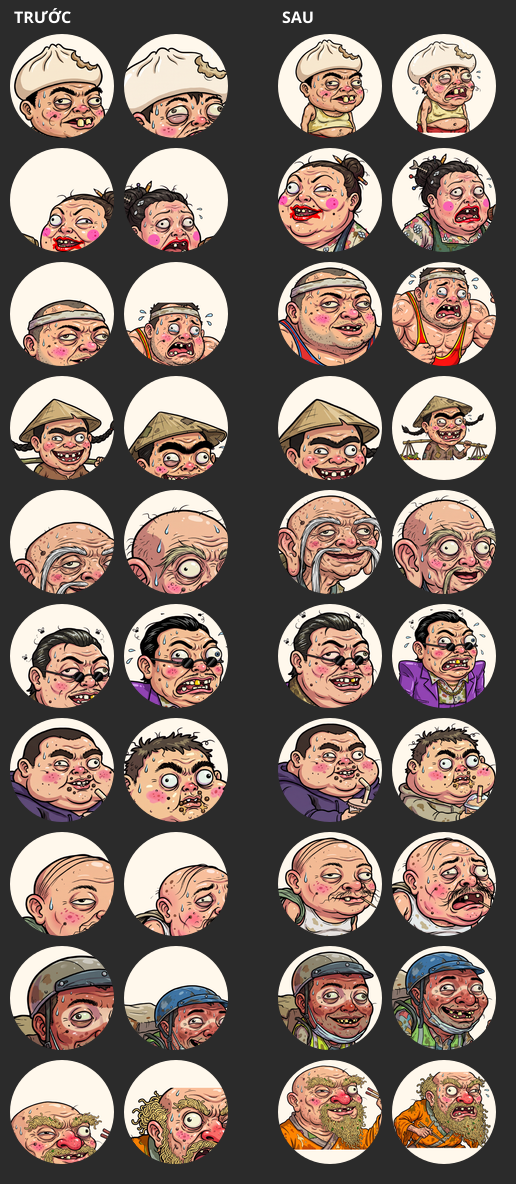
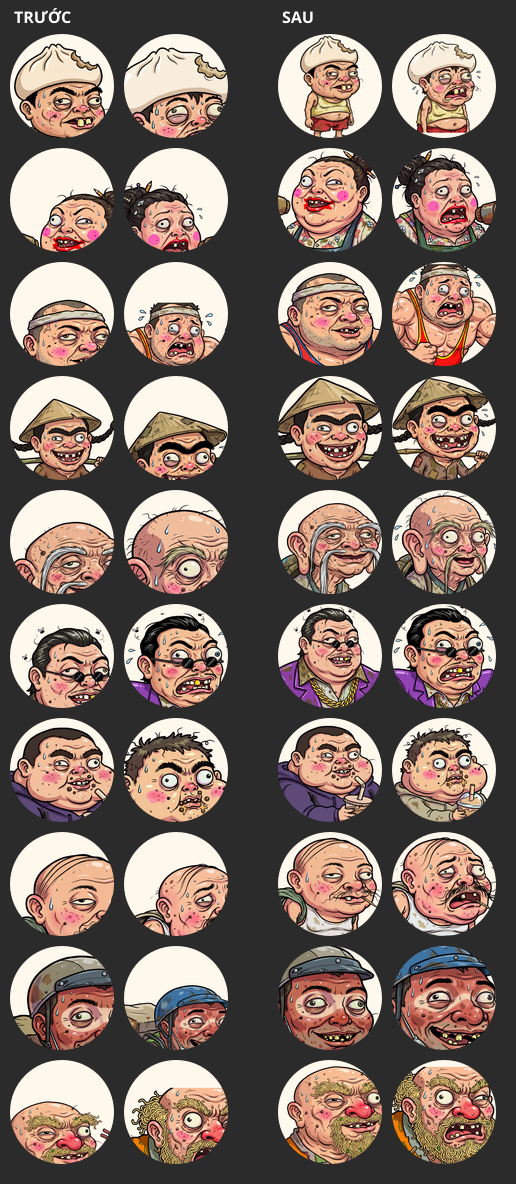
Dò khung đầu bằng VÙNG DA, không đoán cằm theo cổ nữa
Chủ dự án chụp màn hình lần hai: bong bóng mặt vẫn chỉ thấy cái nón. Hai nguyên
nhân tách biệt.

1. Bản đang chạy là deploy lúc 11:01 từ 7f5966e — code cũ. Không liên quan.
2. Khung đầu đo hôm nay vẫn sai thật, chỉ là tờ ảnh kiểm 120 px hình VUÔNG giấu
   mất: khung tròn bo mất bốn góc nên ô vuông trông ổn mà trong game vẫn cắt.

Cách dò cũ đoán cằm từ vị trí cổ. Mặt có râu, hàm bạnh hay cổ rụt thì chỗ hẹp
nhất là QUAI HÀM, nằm trên cằm → cắt ngang mồm. Bù bằng "đầu cao 1,35 lần bề
ngang" thì ảnh nón to lại phình ra ôm cả người (ba ảnh Cô Ba ra `[0, 0, 1]`).

Nay dò hai tầng: alpha tìm CỘT của đầu, rồi MÀU DA tìm mặt trong cột đó — gộp
mọi mảng da (tóc, kính râm, râu cắt mặt thành nhiều mảnh), nới lên 42% cho
tóc/nón, xuống 10% cho râu/cằm. Vùng da không phải đoán: nó chính là cái mặt.
38/40 ảnh máy dò đúng, còn 2 ảnh toàn thân đo tay (trước là 10).

Duyệt bằng hai bài chụp thật thay cho tờ 120 px: trang DOM dùng chính style.css
với đủ 5 cỡ ô, và trang Pixi nạp THẲNG lớp `Emote` thật qua manifest server.

Claude-Session: https://claude.ai/code/session_01MS4KnQZWcshkxER2EFq9Gi

Changed region(s): [[0.5271, 0.0312, 0.9612, 1.0]]

diff --git a/client/src/render/headbox.ts b/client/src/render/headbox.ts
@@ -11,46 +11,46 @@
  * mỗi ảnh phải có khung riêng.
  */
 export const HEAD_BOX: Record<string, readonly [number, number, number]> = {
-  'a_hon/neutral': [0.121, 0.012, 0.734],
-  'a_hon/evil': [0.135, 0.012, 0.721],
+  'a_hon/neutral': [0.064, 0.035, 0.846],
+  'a_hon/evil': [0.104, 0.035, 0.857],
   'a_hon/panic': [0, 0, 1],
-  'a_hon/cry': [0.092, 0.006, 0.818],
-  'ba_tam_loa/neutral': [0.391, 0.182, 0.529],
-  'ba_tam_loa/evil': [0.18, 0.068, 0.514],
-  'ba_tam_loa/panic': [0.045, 0.141, 0.623],
-  'ba_tam_loa/cry': [0.16, 0.023, 0.508],
-  'be_ti/neutral': [0.252, 0.172, 0.561],
-  'be_ti/evil': [0.229, 0.166, 0.627],
-  'be_ti/panic': [0.205, 0.186, 0.59],
-  'be_ti/cry': [0.344, 0.162, 0.463],
-  'co_ba_ganh/neutral': [0.3, 0.03, 0.42], // đo bằng mắt
-  'co_ba_ganh/evil': [0, 0, 1],
-  'co_ba_ganh/panic': [0, 0, 1],
-  'co_ba_ganh/cry': [0, 0, 1],
-  'cu_rua/neutral': [0.25, 0.137, 0.635],
-  'cu_rua/evil': [0.199, 0.041, 0.729],
-  'cu_rua/panic': [0.197, 0.043, 0.68],
-  'cu_rua/cry': [0.23, 0.201, 0.559],
-  'dai_ca_dep/neutral': [0.256, 0.082, 0.564],
-  'dai_ca_dep/evil': [0.295, 0.148, 0.547],
-  'dai_ca_dep/panic': [0.148, 0.012, 0.734],
-  'dai_ca_dep/cry': [0.105, 0.09, 0.875],
-  'map_tra_sua/neutral': [0.188, 0.018, 0.627],
-  'map_tra_sua/evil': [0.232, 0.02, 0.594],
-  'map_tra_sua/panic': [0.086, 0.012, 0.734],
-  'map_tra_sua/cry': [0.176, 0.021, 0.566],
-  'ong_ba_vong/neutral': [0.258, 0.08, 0.691],
-  'ong_ba_vong/evil': [0.33, 0.09, 0.36], // đo bằng mắt
-  'ong_ba_vong/panic': [0.332, 0.139, 0.576],
-  'ong_ba_vong/cry': [0.209, 0.025, 0.691],
-  'shipper/neutral': [0.215, 0.01, 0.768],
-  'shipper/evil': [0.45, 0.17, 0.4], // đo bằng mắt
-  'shipper/panic': [0.314, 0.18, 0.547],
-  'shipper/cry': [0.244, 0.137, 0.602],
-  'su_phu_mi/neutral': [0.123, 0.184, 0.691],
-  'su_phu_mi/evil': [0.31, 0.09, 0.42], // đo bằng mắt
-  'su_phu_mi/panic': [0.037, 0.037, 0.963],
-  'su_phu_mi/cry': [0.154, 0.082, 0.779],
+  'a_hon/cry': [0.063, 0.035, 0.877],
+  'ba_tam_loa/neutral': [0.309, 0.201, 0.574],
+  'ba_tam_loa/evil': [0.238, 0.086, 0.504],
+  'ba_tam_loa/panic': [0.148, 0.162, 0.586],
+  'ba_tam_loa/cry': [0.197, 0.041, 0.535],
+  'be_ti/neutral': [0.24, 0.139, 0.59],
+  'be_ti/evil': [0.244, 0.188, 0.619],
+  'be_ti/panic': [0.205, 0.205, 0.57],
+  'be_ti/cry': [0.256, 0.176, 0.566],
+  'co_ba_ganh/neutral': [0.281, 0.113, 0.438],
+  'co_ba_ganh/evil': [0.252, 0.225, 0.561],
+  'co_ba_ganh/panic': [0.197, 0.178, 0.617],
+  'co_ba_ganh/cry': [0.248, 0.232, 0.498],
+  'cu_rua/neutral': [0.166, 0.08, 0.715],
+  'cu_rua/evil': [0.121, 0.063, 0.875],
+  'cu_rua/panic': [0.131, 0.064, 0.791],
+  'cu_rua/cry': [0.197, 0.203, 0.568],
+  'dai_ca_dep/neutral': [0.172, 0.1, 0.75],
+  'dai_ca_dep/evil': [0.281, 0.166, 0.594],
+  'dai_ca_dep/panic': [0.225, 0.039, 0.596],
+  'dai_ca_dep/cry': [0.17, 0.123, 0.725],
+  'map_tra_sua/neutral': [0.178, 0, 0.676],
+  'map_tra_sua/evil': [0.266, 0.027, 0.572],
+  'map_tra_sua/panic': [0.117, 0, 0.766],
+  'map_tra_sua/cry': [0.182, 0, 0.607],
+  'ong_ba_vong/neutral': [0.246, 0.078, 0.699],
+  'ong_ba_vong/evil': [0.29, 0.06, 0.47], // đo bằng mắt
+  'ong_ba_vong/panic': [0.344, 0.141, 0.582],
+  'ong_ba_vong/cry': [0.189, 0.049, 0.766],
+  'shipper/neutral': [0.402, 0.068, 0.561],
+  'shipper/evil': [0.55, 0.24, 0.45], // đo bằng mắt
+  'shipper/panic': [0.449, 0.23, 0.346],
+  'shipper/cry': [0.344, 0.158, 0.555],
+  'su_phu_mi/neutral': [0.137, 0.189, 0.52],
+  'su_phu_mi/evil': [0.326, 0.139, 0.379],
+  'su_phu_mi/panic': [0.293, 0.109, 0.588],
+  'su_phu_mi/cry': [0.227, 0, 0.719],
 };
 
 /**

diff --git a/docs/reports/2026-11-05-cat-chan-dung/README.md b/docs/reports/2026-11-05-cat-chan-dung/README.md
@@ -21,15 +21,23 @@ node tools/portrait-headbox.mjs                       # ghi lại headbox.ts
 node tools/portrait-headbox.mjs --sheet /tmp/box.png  # kèm tờ ảnh kiểm bằng mắt
 ```
 
-Tool dò cổ bằng alpha (hàng hẹp nhất phía trên thân) rồi lấy phần trên cổ làm đầu. **Cằm
-thì không tin vào cổ**: với mặt có râu, hàm bạnh hay cổ rụt, chỗ hẹp nhất là quai hàm nằm
-TRÊN cằm — lấy đúng chỗ đó là cắt mất mồm. Đầu của bộ art này cao khoảng 1,35 lần bề ngang
-nên đáy khung suy từ bề ngang, chỉ dùng cổ khi nó còn thấp hơn thế.
+Tool dò **hai tầng**:
 
-Còn lại 4 ảnh máy dò sai, đều là **ảnh toàn thân** (`co_ba_ganh/neutral`,
-`ong_ba_vong/evil`, `shipper/evil`, `su_phu_mi/evil`): chỗ hẹp nhất rơi xuống eo hoặc khe
-hai chân nên khung ôm cả người. Bốn ảnh đó đo bằng mắt, để trong bảng `OVERRIDE` của tool
-và luôn thắng máy. 36/40 ảnh còn lại do máy dò.
+1. **Alpha** cho biết CỘT của đầu — quét bề rộng từng hàng, chỗ hẹp nhất phía trên thân là
+   cổ. Bề ngang lấy theo phân vị 8–92% để đòn gánh của Cô Ba không kéo khung rộng ra.
+2. **Màu da** cho biết MẶT nằm đâu trong cột đó — gộp mọi mảng màu da trong cột ấy (tóc,
+   kính râm, râu cắt mặt thành nhiều mảnh rời nên phải gộp; lấy mảng to nhất là mất trán
+   hoặc mất cằm). Nới lên 42% chiều cao mặt cho tóc/nón, xuống 10% cho râu và cằm.
+
+Tầng 2 mới là chỗ quyết định, và phải thử hai hướng sai trước mới ra:
+- chỉ dùng alpha rồi đoán cằm theo vị trí cổ → mặt có râu / hàm bạnh / cổ rụt thì chỗ hẹp
+  nhất là QUAI HÀM, nằm trên cằm, khung cắt ngang mồm (8/10 thẻ nhân vật 64 px);
+- đoán bù bằng "đầu cao 1,35 lần bề ngang" → ảnh nào nón to thì khung phình ra ôm cả
+  người, ba ảnh của Cô Ba ra đúng `[0, 0, 1]`.
+
+Vùng da thì không phải đoán: nó chính là cái mặt. 38/40 ảnh máy dò đúng; còn 2 ảnh
+**toàn thân** (`ong_ba_vong/evil`, `shipper/evil`) cột đầu theo alpha ôm trọn người nên
+bắp tay bắp chân lọt vào — hai ảnh đó đo bằng mắt, để trong `OVERRIDE` của tool.
 
 Bốn nơi dùng khung này — tất cả gọi chung `headCrop`/`headBox`, không ai tự chép công thức:
 - `client/src/ui/hud.ts` — ô đại diện HUD 64 px (§12.4).
@@ -44,6 +52,20 @@ Thêm nhân vật mới thì chạy lại tool, xem tờ ảnh kiểm, ảnh nà
 ![trước sau](truoc-sau.png)
 
 Cột trái: luật cũ. Cột phải: khung đầu riêng. Mỗi nhân vật 2 ảnh (`neutral`, `panic`).
+
+## Cách kiểm (đừng tin mắt nhìn tờ 120 px)
+
+Hai lần đầu tôi duyệt bằng tờ ảnh kiểm 120 px và tưởng là xong, rồi chủ dự án chụp màn
+hình báo vẫn hỏng. Khung tròn bo mất bốn góc nên tờ ảnh VUÔNG trông ổn mà vào game vẫn cắt
+mất mồm; mà tờ 120 px thì chính cái cằm bị cắt cũng không thấy. Hai bài kiểm sau mới là
+bài thật:
+
+- **DOM** — dựng trang mô phỏng dùng CHÍNH `style.css` của dự án với đủ 5 cỡ ô (thẻ nhân
+  vật 64, xem trước 84, bảng xếp hạng 40 và 28, ô HUD 64), chụp bằng Playwright.
+- **Pixi** — trang tạm nạp THẲNG lớp `Emote` thật và chân dung thật qua manifest của server
+  đang chạy, rồi chụp. Không mô phỏng lại phép tính, vì phép tính chính là chỗ sai.
+
+Tờ `--sheet` của tool chỉ để lọc nhanh; duyệt thì dựng ảnh ở ĐÚNG hình tròn, ĐÚNG cỡ.
 
 ## Không đổi
 
